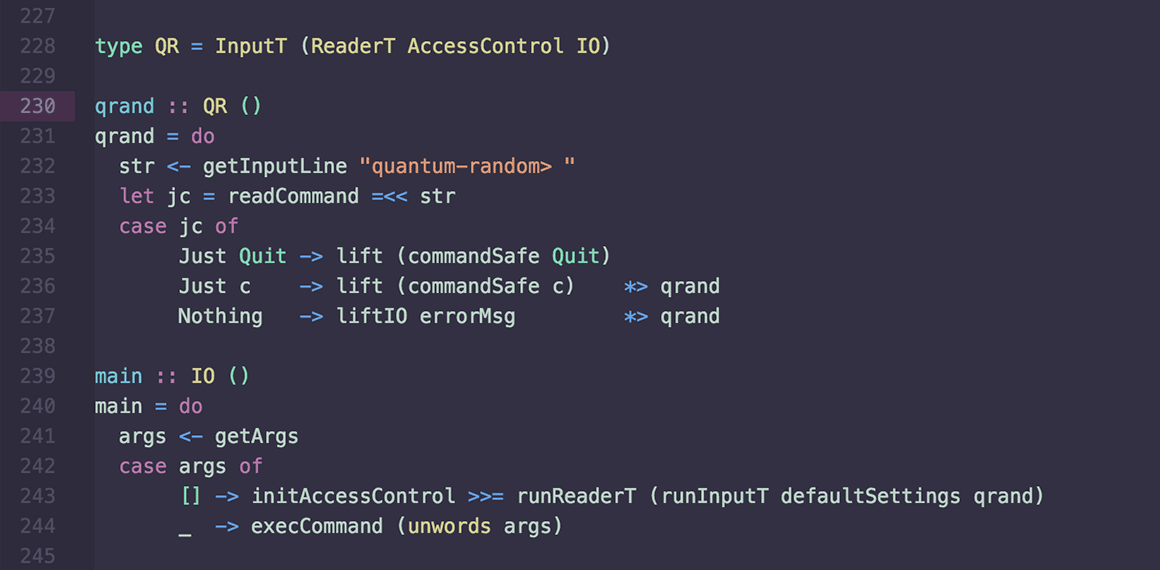
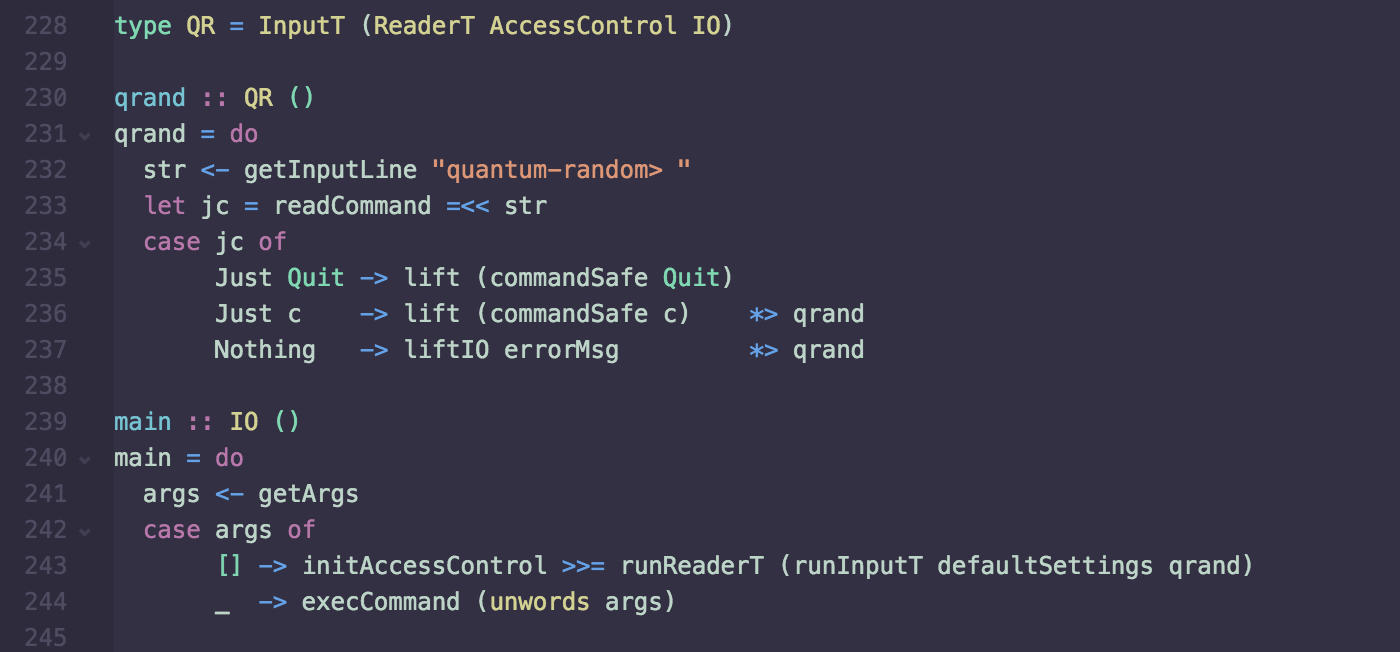
Resize preview image (need to use html img tag instead of markdown), 1/2 original size (1400 -> 700)

diff --git a/README.md b/README.md
@@ -4,7 +4,7 @@ A dark syntax theme for the [Atom editor](https://atom.io).
 
 Subtle, cold and desaturated in character with emphasis on purple, mint, blue, yellow and orange.
 
-![Haskell syntax example 1](https://raw.githubusercontent.com/BlackBrane/dark-condensate-syntax/master/img/qrand.png)
+<img src="https://raw.githubusercontent.com/BlackBrane/dark-condensate-syntax/master/img/qrand.png" width="700">
 
 It's been observed to work well in a variety of contexts, but feel free to send a language-specific PR (mainly in `styles/languages/`) if the color mapping for your language of choice can be improved. So far it's primarily shaped by my view as a Haskell developer.
 
